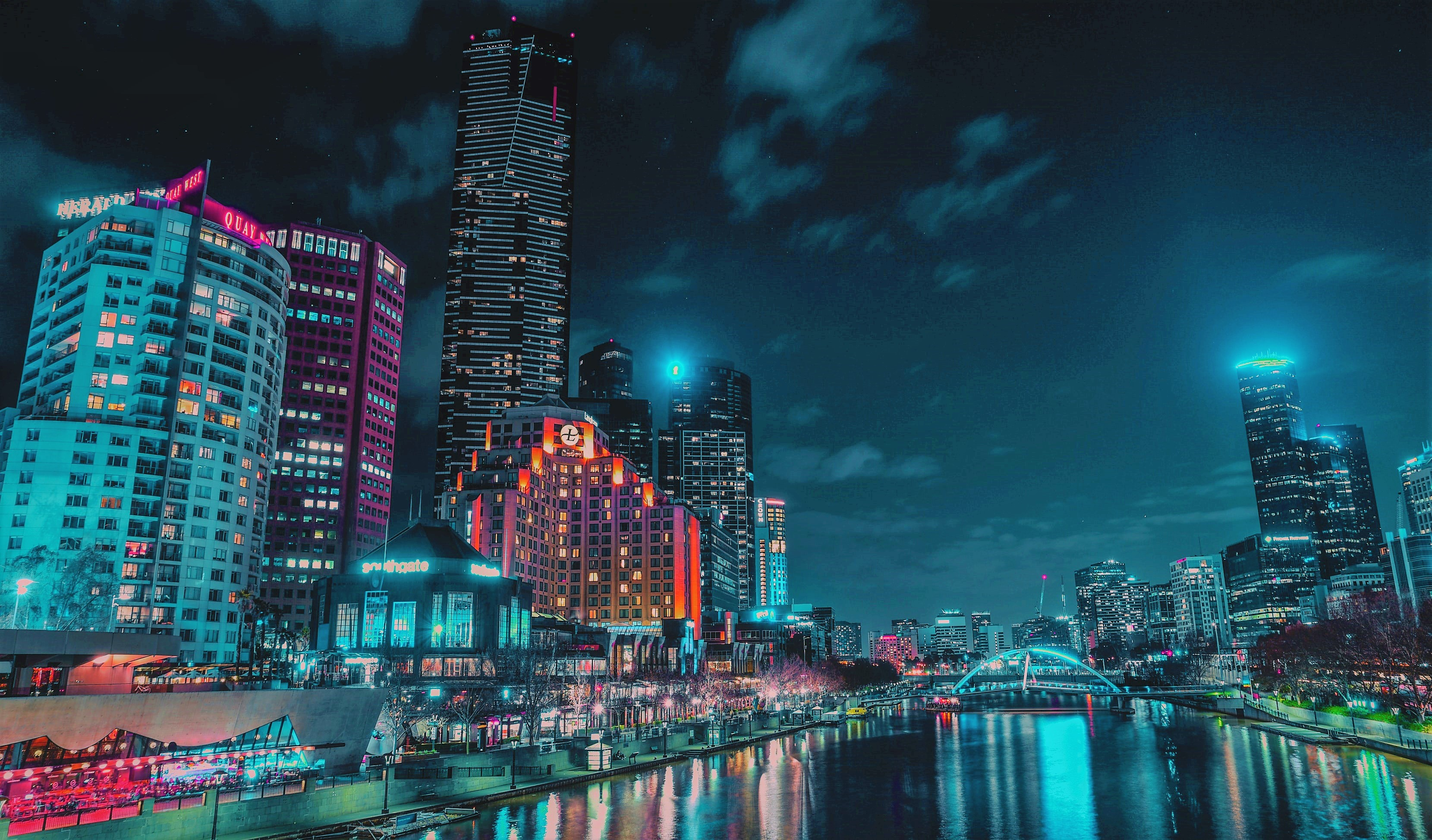
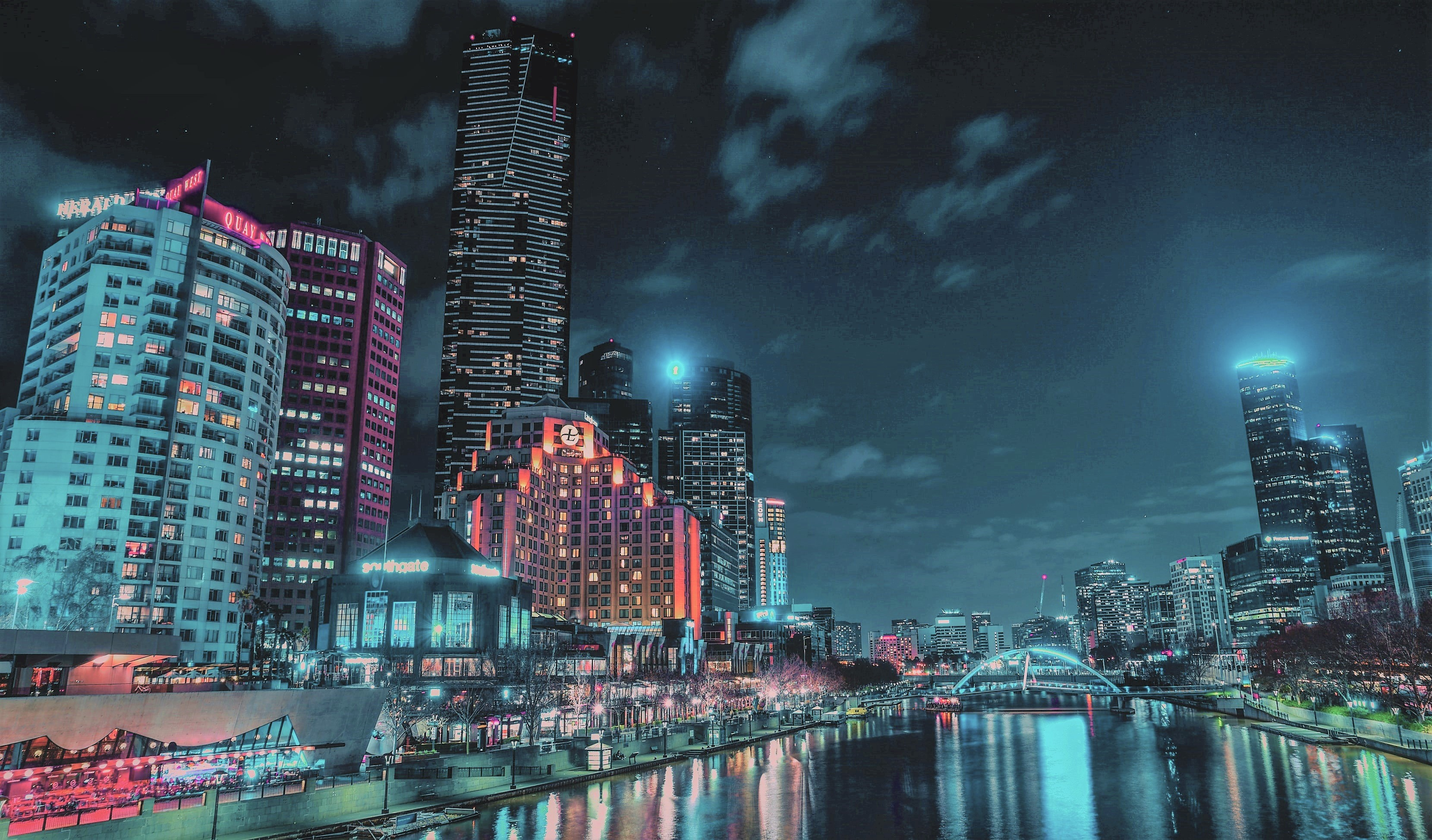
Fixed colour inconsistencies and added section breakers

diff --git a/src/components/section-breakers/section-breakers-components/img-section-breaker.jsx b/src/components/section-breakers/section-breakers-components/img-section-breaker.jsx
@@ -1,0 +1,75 @@
+import React from 'react';
+import { CheckOrientation } from '../../../utils/CheckOrientation.jsx';
+import { CheckDevice } from '../../../utils/CheckDevice.jsx';
+
+function ImgSectionBreaker({ background, topContent, bottomContent }) {
+  const isVertical = CheckOrientation();
+  const isMobile = CheckDevice();
+
+  return (
+    <section
+      style={{
+        height: isVertical
+          ? '100vh'
+          : !isVertical && isMobile
+          ? '150vh'
+          : '100vh',
+        maxHeight: isVertical ? 900 : !isVertical && isMobile ? 600 : '',
+      }}
+    >
+      <figure
+        style={{
+          backgroundImage: `url(${background})`,
+          backgroundSize: 'cover',
+          backgroundPosition: 'center',
+          backgroundRepeat: 'no-repeat',
+          height: '100%',
+          width: '100%',
+          margin: 0,
+          position: 'relative',
+        }}
+      >
+        <div
+          style={{
+            backgroundColor: 'rgba(0, 0, 0, 0.6)',
+            height: '100%',
+            width: '100%',
+          }}
+        >
+          <div
+            style={{
+              backgroundColor: 'rgba(102, 38, 158, 0.2)',
+              width: '100%',
+              height: '100%',
+              display: 'flex',
+              justifyContent: 'space-around',
+            }}
+          >
+            <div
+              style={{
+                position: 'absolute',
+                top: 0,
+                left: 0,
+                marginBottom: '20%',
+              }}
+            >
+              {topContent}
+            </div>
+            <div
+              style={{
+                position: 'absolute',
+                bottom: 0,
+                right: 0,
+                marginTop: '20%',
+              }}
+            >
+              {bottomContent}
+            </div>
+          </div>
+        </div>
+      </figure>
+    </section>
+  );
+}
+
+export default ImgSectionBreaker;

diff --git a/src/components/section-breakers/section-breakers.jsx b/src/components/section-breakers/section-breakers.jsx
@@ -1,0 +1,66 @@
+import React from 'react';
+import NeonBg from '../../assets/images/neon-bg.jpg';
+import MelbBg from '../../assets/images/melb-bg.jpg';
+import ImgSectionBreaker from './section-breakers-components/img-section-breaker.jsx';
+
+const contentContainer = {
+  color: 'white',
+  padding: '1rem',
+};
+
+const topParagraphStyles = {
+  textAlign: 'left',
+  fontSize: '1rem',
+};
+
+const bottomParagraphStyles = {
+  textAlign: 'right',
+  fontSize: '1rem',
+};
+
+const headerStyles = {
+  fontSize: '1.8rem',
+};
+
+export function NebulaSectionBreaker() {
+  const topContent = (
+    <div style={contentContainer}>
+      <h1 style={headerStyles}>A bit about myself</h1>
+      <p style={topParagraphStyles}>
+        My name is Jacob Booth. I'm a full-stack web developer based in
+        Melbourne, Australia. I discovered web development in 2021 as the ideal
+        medium for creating meaningful and informal programs.
+      </p>
+    </div>
+  );
+
+  const bottomContent = (
+    <div style={contentContainer}>
+      <p style={bottomParagraphStyles}>
+        I strongly believe that, while not the only option for content delivery,
+        this domain possesses the greatest potential for creating a more
+        accessible and inclusive social dynamic for the digital age we find
+        ourselves in. Hence, I have devoted myself tirelessly, both within and
+        outside of academic context, to developing my skills in this field.
+      </p>
+    </div>
+  );
+
+  return (
+    <section>
+      <ImgSectionBreaker
+        background={MelbBg}
+        topContent={topContent}
+        bottomContent={bottomContent}
+      />
+    </section>
+  );
+}
+
+export function NeonSectionBreaker() {
+  return (
+    <section>
+      <ImgSectionBreaker background={NeonBg} />
+    </section>
+  );
+}

diff --git a/src/components/2-skills-section/skills-section.jsx b/src/components/2-skills-section/skills-section.jsx
@@ -1,7 +1,7 @@
 import React from 'react';
 import { CheckOrientation } from '../../utils/CheckOrientation.jsx';
 import { CheckDevice } from '../../utils/CheckDevice.jsx';
-import MelbBg from '../../assets/images/melb-bg.jpg';
+import NebulaBg from '../../assets/images/nebula-bg.jpg';
 import SkillsBrief from './skills-section-components/skills-brief/skills-brief.jsx';
 import SkillsList from './skills-section-components/skills-list/skills-list.jsx';
 
@@ -19,7 +19,7 @@ function SkillsSection() {
     >
       <div
         style={{
-          backgroundImage: `url(${MelbBg})`,
+          backgroundImage: `url(${NebulaBg})`,
           backgroundSize: 'cover',
           backgroundPosition: 'center',
           backgroundRepeat: 'no-repeat',
@@ -33,10 +33,11 @@ function SkillsSection() {
         >
           <div
             style={{
-              backgroundColor: 'rgba(102, 38, 158, 0.1)',
+              backgroundColor: 'rgba(102, 38, 158, 0.3)',
               display: 'flex',
               justifyContent: 'space-around',
               padding: isVertical ? '2rem 0 0 0' : '1rem 0 0 0',
+              boxShadow: 'inset 0 0 2.5rem 1.5rem rgb(0, 0, 0)',
             }}
           >
             <div

diff --git a/src/components/1-logo-section/logo-section.jsx b/src/components/1-logo-section/logo-section.jsx
@@ -1,7 +1,7 @@
 import React from 'react';
 import MainHeader from './logo-section-components/main-header/main-header.jsx';
 import Brief from './logo-section-components/brief/brief.jsx';
-import StarsBg from '../../assets/images/section-1-bg-casey-horner.jpg';
+import StarsBg from '../../assets/images/light-travel-bg.jpg';
 import { CheckOrientation } from '../../utils/CheckOrientation.jsx';
 import { CheckDevice } from '../../utils/CheckDevice.jsx';
 
@@ -33,7 +33,7 @@ function LogoSection() {
         >
           <div
             style={{
-              backgroundColor: 'rgba(102, 38, 158, 0.1)',
+              backgroundColor: 'rgba(102, 38, 158, 0.2)',
               display: 'flex',
               flexDirection: 'column',
               justifyContent: 'center',

diff --git a/src/pages/jsb-dev-page.jsx b/src/pages/jsb-dev-page.jsx
@@ -1,0 +1,20 @@
+import React from 'react';
+import LogoSection from '../components/1-logo-section/logo-section';
+import SkillsSection from '../components/2-skills-section/skills-section';
+import {
+  NebulaSectionBreaker,
+  NeonSectionBreaker,
+} from '../components/section-breakers/section-breakers.jsx';
+
+function HomePage() {
+  return (
+    <>
+      <LogoSection />
+      <NebulaSectionBreaker />
+      <SkillsSection />
+      <NeonSectionBreaker />
+    </>
+  );
+}
+
+export default HomePage;

diff --git a/src/App.js b/src/App.js
@@ -1,7 +1,7 @@
-import HomePage from './pages/home-page.jsx';
+import JSBDevPage from './pages/jsb-dev-page.jsx';
 
 function App() {
-  return <HomePage />;
+  return <JSBDevPage />;
 }
 
 export default App;
